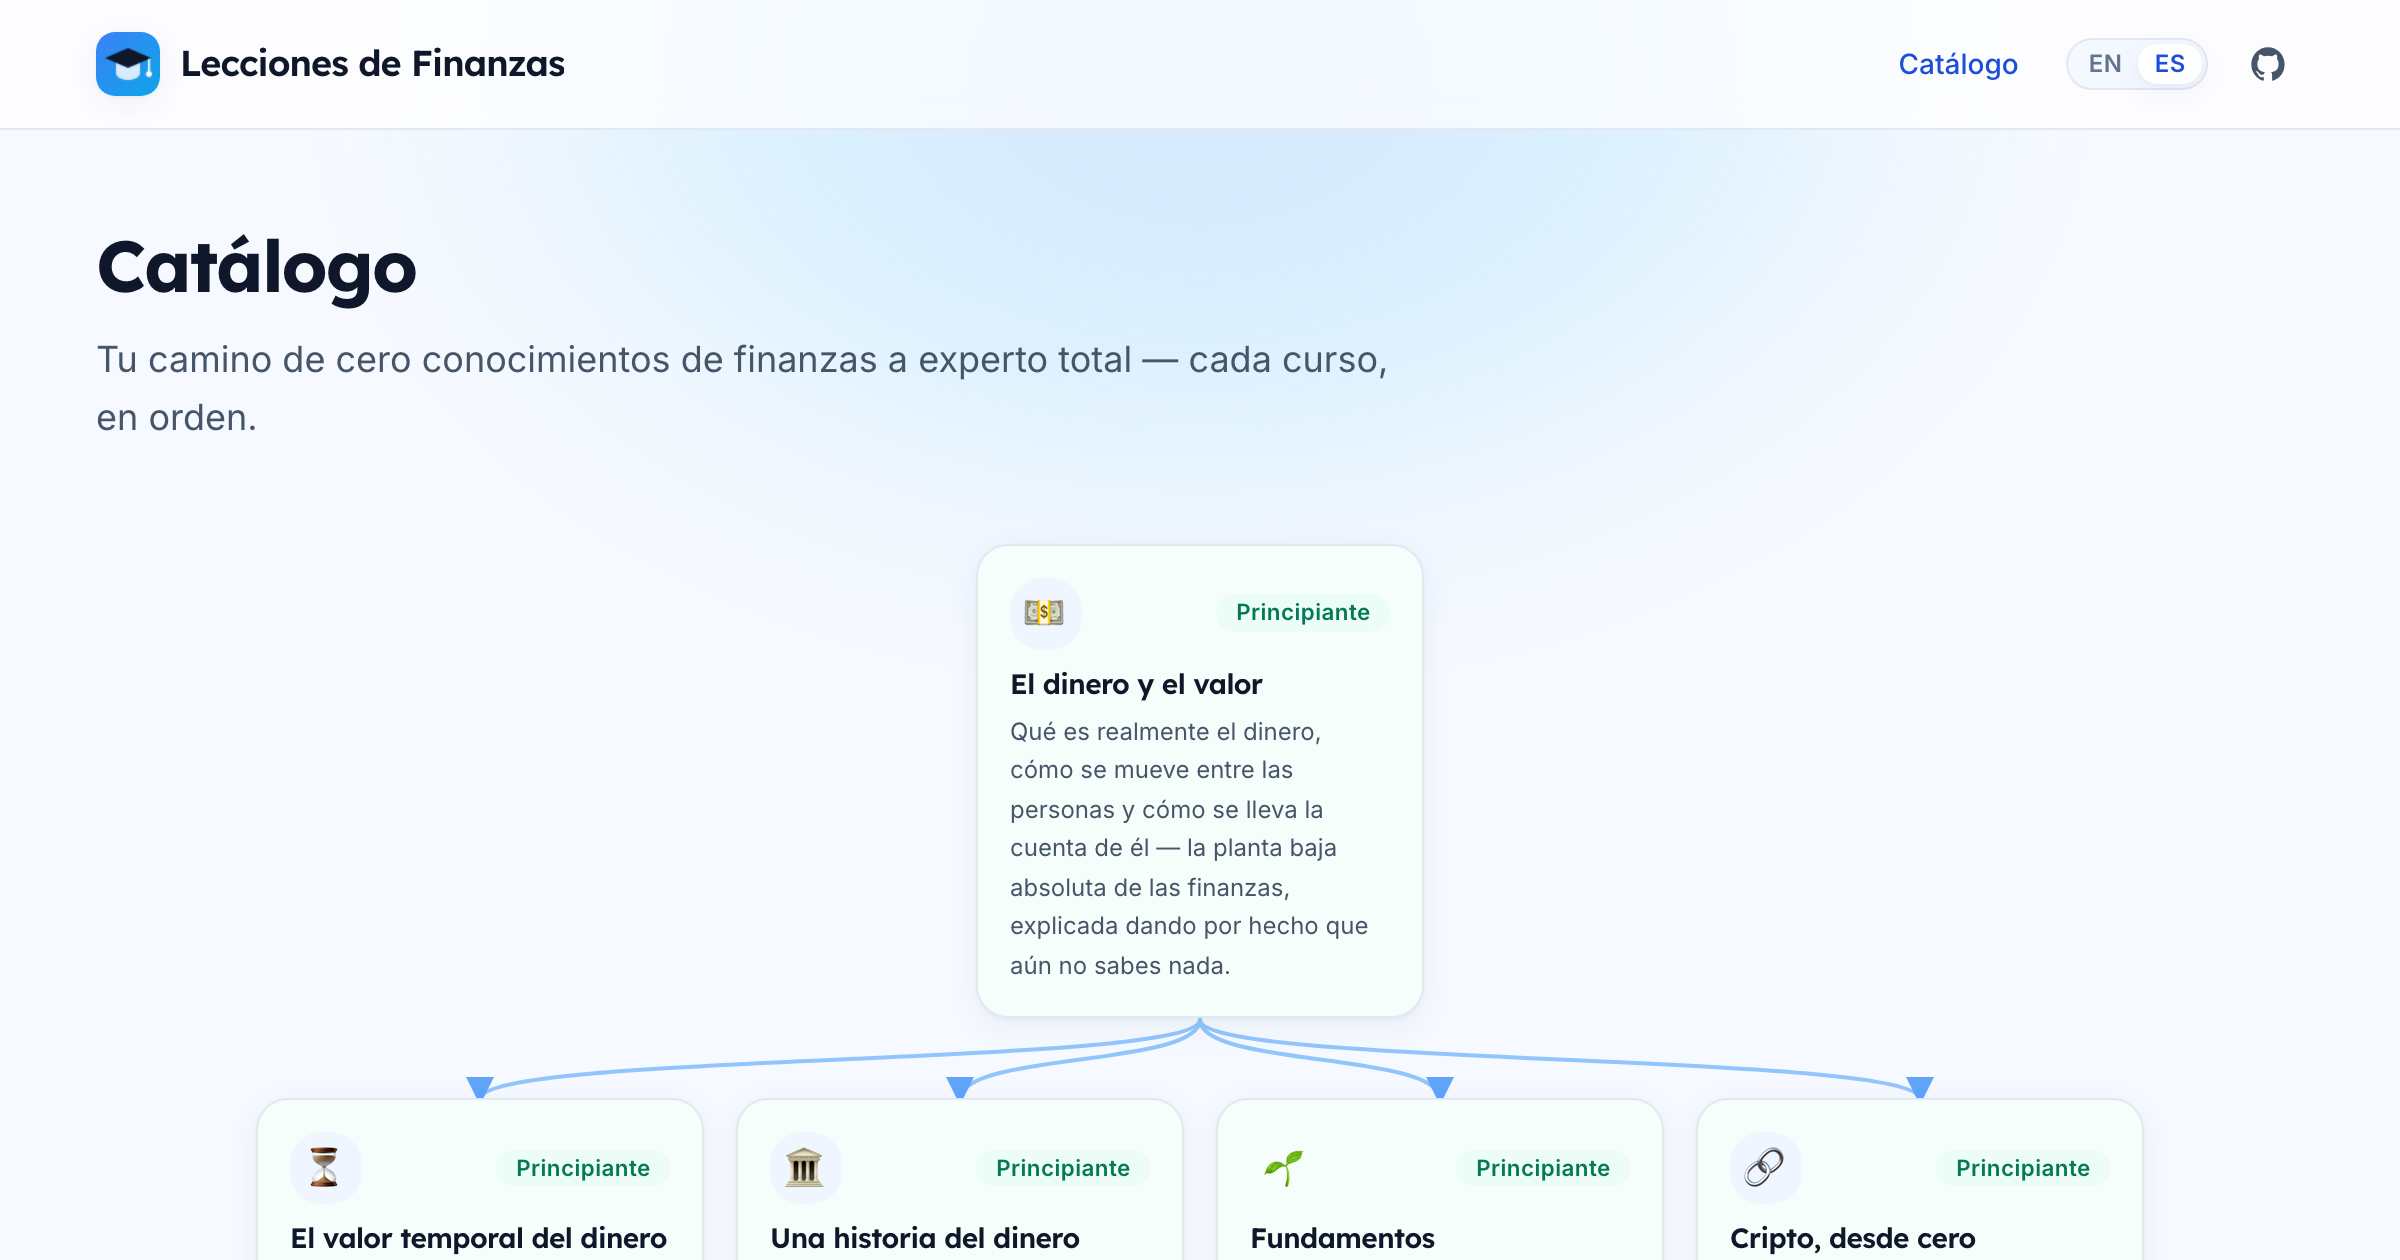
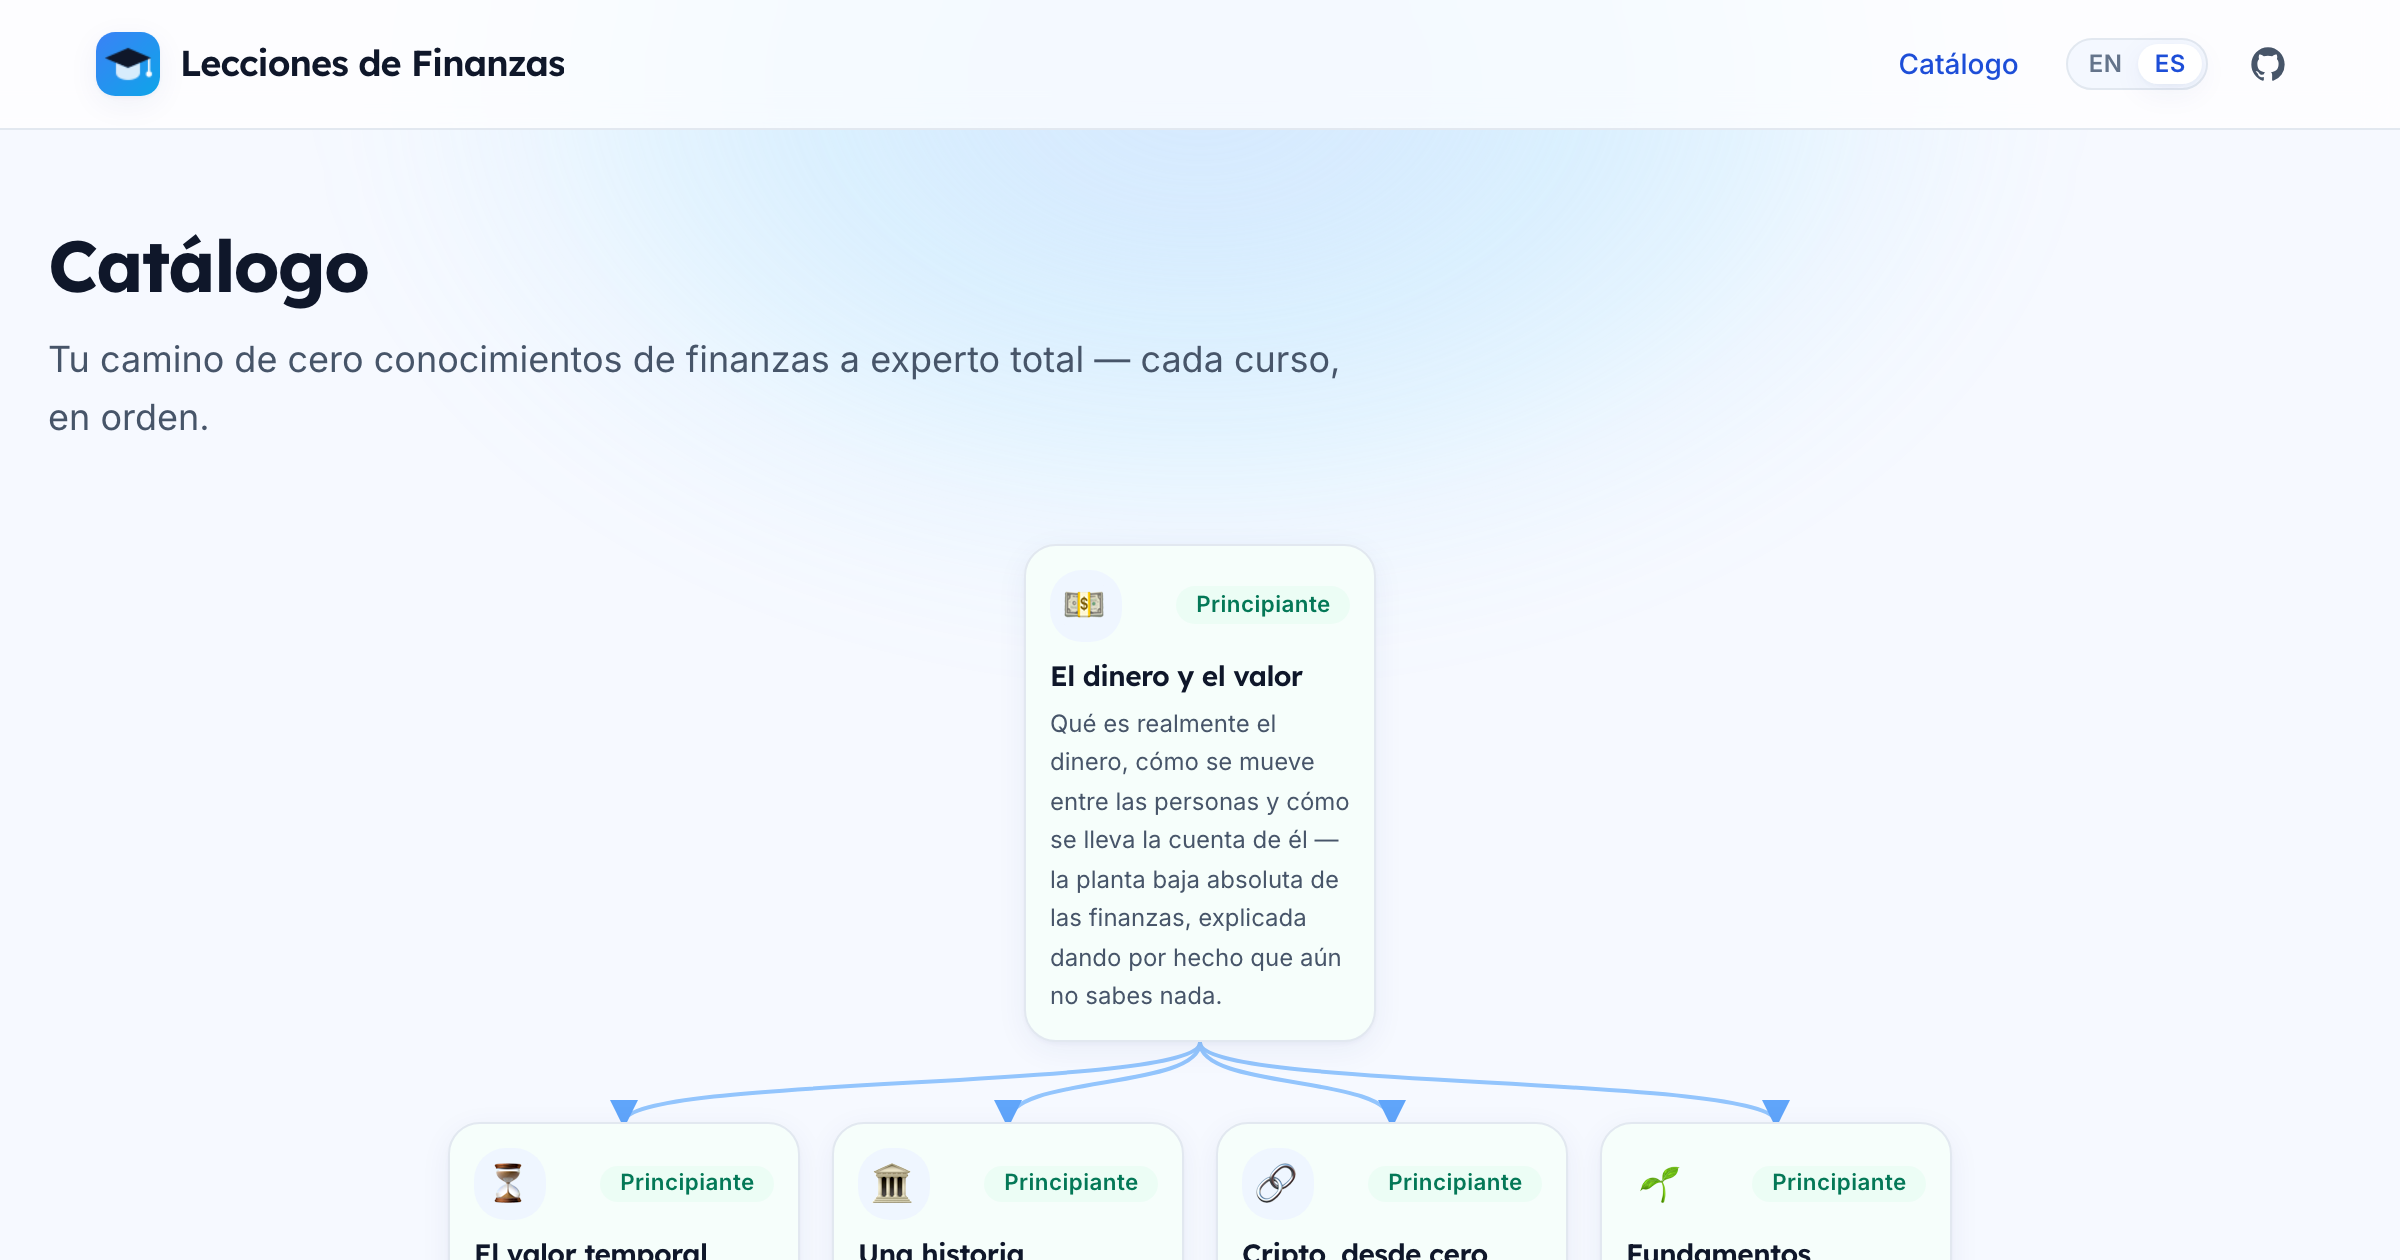
feat(catalog): wider graph, smaller cards, group each level by course type

diff --git a/src/components/react/CourseGraph.tsx b/src/components/react/CourseGraph.tsx
@@ -162,6 +162,12 @@ export function CourseGraph({
   // Group nodes into rows by layer, preserving array order within each row.
   const rows: CourseNode[][] = Array.from({ length: maxLayer + 1 }, () => []);
   for (const n of nodes) rows[layers.get(n.slug) ?? 0].push(n);
+  // Within each level, cluster courses by type (accent) so same-kind tracks
+  // sit together. Stable sort keeps the source order inside each cluster.
+  const ACCENT_RANK: Record<string, number> = { brand: 0, accent: 1 };
+  for (const row of rows) {
+    row.sort((a, b) => (ACCENT_RANK[a.accent ?? 'brand'] - ACCENT_RANK[b.accent ?? 'brand']));
+  }
 
   const measure = useCallback(() => {
     const container = containerRef.current;
@@ -284,7 +290,7 @@ export function CourseGraph({
                         href={n.href}
                         title={`${n.title} · ${n.lessons} ${lessonsLabel}${isDone ? ` · ${finishedLabel}` : ''}`}
                         className={cx(
-                          'group relative flex h-full w-36 max-w-[44vw] flex-col rounded-card border border-ink-200 p-3 shadow-soft transition-all hover:-translate-y-1 hover:border-brand-300 hover:shadow-lift motion-reduce:transition-none motion-reduce:hover:translate-y-0 sm:w-56 sm:max-w-[80vw] sm:p-4',
+                          'group relative flex h-full w-28 max-w-[40vw] flex-col rounded-card border border-ink-200 p-2.5 shadow-soft transition-all hover:-translate-y-1 hover:border-brand-300 hover:shadow-lift motion-reduce:transition-none motion-reduce:hover:translate-y-0 sm:w-44 sm:max-w-[80vw] sm:p-3',
                           edge,
                           isDone && 'ring-2 ring-brand-400 ring-offset-1',
                         )}